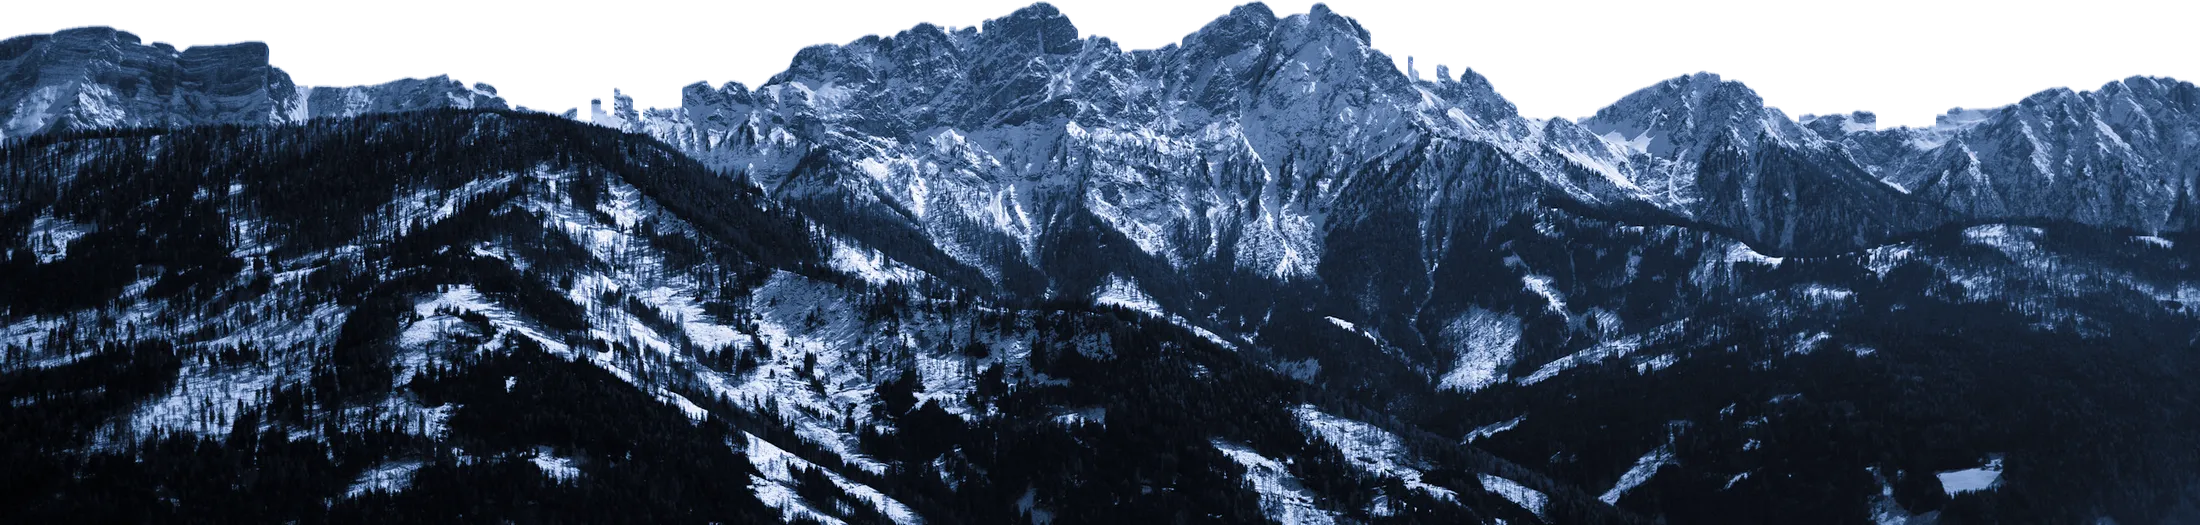
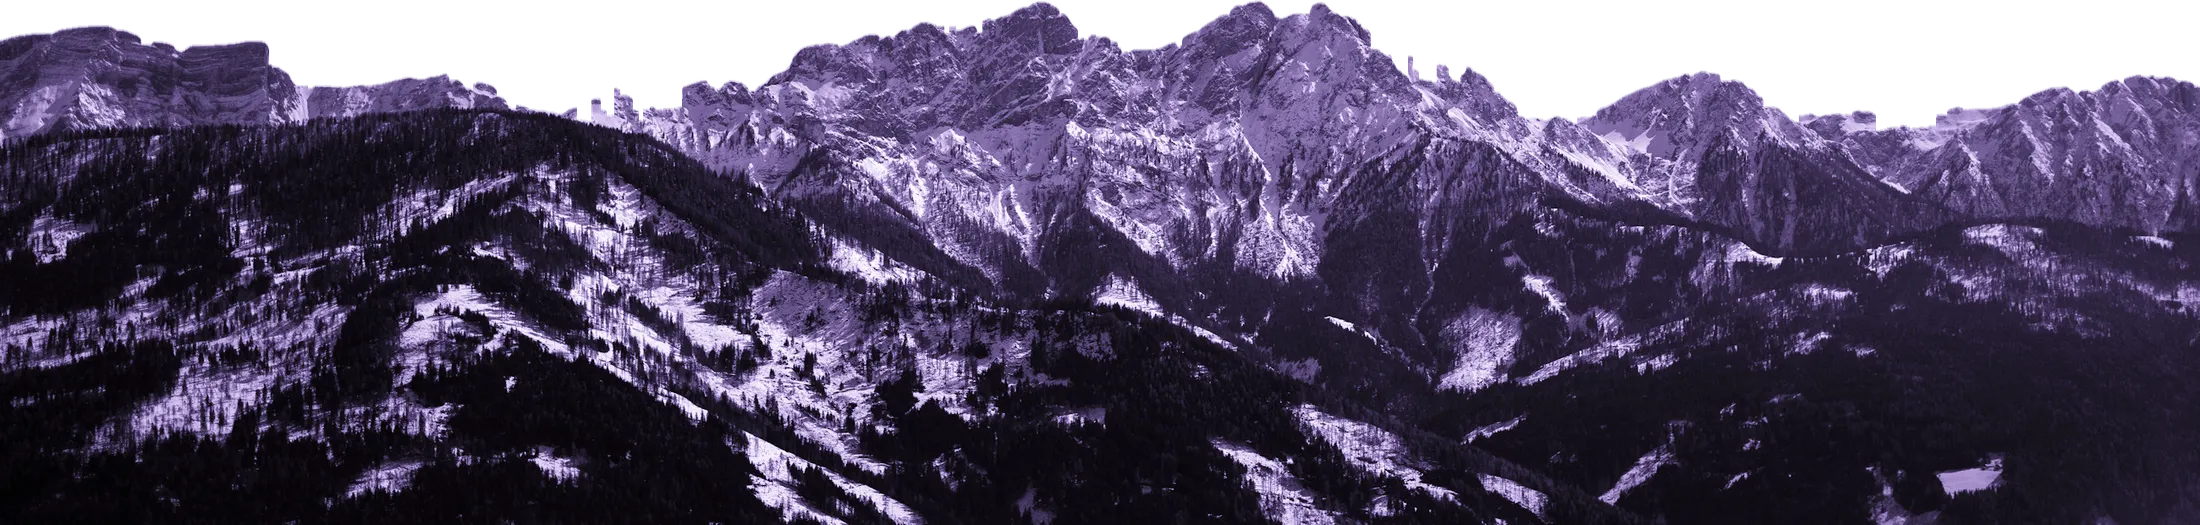
Move the hero to the lavender theme and add a tagline
- Lavender dusk sky (amethyst to a lavender horizon glow to plum)
  and lavender-tinted mountains in place of the night blue
- Drop the red ORIGINALS word; the statue stands alone, a little
  lower so it clears the garment rail
- "Wear the future — cut to fit only you." in the italic serif
  under the wordmark
- Header strip and the section below fade from plum again

diff --git a/components/sections/Hero.jsx b/components/sections/Hero.jsx
@@ -5,9 +5,9 @@ import { gsap } from "gsap"; // ScrollTrigger is registered once in SmoothScroll
 import { useApp } from "@/lib/store";
 import { Spark } from "../ui/primitives";
 
-// Streetwear-scale poster hero: a full-width extended wordmark under a night-blue sky, a "New
-// Arrival" pill, a slow rail of floating garments, and below it a red ORIGINALS word with a winged
-// statue rising out of snowed mountains in front of it. Layers drift apart on scroll.
+// Streetwear-scale poster hero: a full-width extended wordmark under a lavender dusk sky, a "New
+// Arrival" pill, a slow rail of floating garments, and below it a winged statue rising out of
+// lavender-lit mountains. Layers drift apart on scroll.
 // PLACEHOLDER imagery: Unsplash stock (see public/hero/CREDITS.md).
 const RAIL = [
   { src: "/hero/look-ivory-coat.webp", w: 401, h: 640, name: "Ivory Long Coat" },
@@ -50,7 +50,7 @@ export default function Hero({ ready }) {
   const { askStylist } = useApp();
 
   // Hold everything back under the preloader, then assemble: wordmark letters rise, the rail glides
-  // in, ORIGINALS lands, the statue climbs out from behind the mountains. Scroll pulls the layers apart.
+  // in, the statue climbs out from behind the mountains. Scroll pulls the layers apart.
   useEffect(() => {
     const ctx = gsap.context(() => {
       const mm = gsap.matchMedia();
@@ -63,7 +63,6 @@ export default function Hero({ ready }) {
         gsap.set(".hx-in", { opacity: 0 });
         gsap.set(".hx-angel", { yPercent: 38 });
         gsap.set(".hx-range", { yPercent: 18 });
-        gsap.set(".hx-red", { scale: 1.25 });
         gsap.set(".hx-rail", { x: 160 });
         if (!ready) return;
 
@@ -71,7 +70,7 @@ export default function Hero({ ready }) {
           .to(".hx-char", { yPercent: 0, duration: 1.2, stagger: 0.035 }, 0)
           .to(".hx-range", { yPercent: 0, opacity: 1, duration: 1.6 }, 0.1)
           .to(".hx-angel", { yPercent: 0, opacity: 1, duration: 2.2 }, 0.3)
-          .to(".hx-red", { scale: 1, opacity: 1, duration: 1.4 }, 0.55)
+          .fromTo(".hx-quote", { y: 14 }, { y: 0, opacity: 1, duration: 1.1 }, 0.55)
           .to(".hx-pill", { opacity: 1, duration: 0.8 }, 0.7)
           .to(".hx-rail", { x: 0, opacity: 1, duration: 1.6 }, 0.75)
           .to(".hx-corner", { opacity: 1, duration: 0.8, stagger: 0.1 }, 1.1);
@@ -80,7 +79,6 @@ export default function Hero({ ready }) {
         gsap.timeline({ scrollTrigger: { trigger: root.current, start: "top top", end: "bottom top", scrub: true } })
           .to(".hx-word", { yPercent: -45, ease: "none" }, 0)
           .to(".hx-rail-wrap", { y: -90, ease: "none" }, 0)
-          .to(".hx-red-wrap", { y: 110, ease: "none" }, 0)
           .to(".hx-angel-wrap", { y: -70, ease: "none" }, 0)
           .to(".hx-range-wrap", { y: 40, ease: "none" }, 0);
       });
@@ -95,10 +93,10 @@ export default function Hero({ ready }) {
       className="on-dark relative isolate flex h-[100svh] min-h-[680px] flex-col overflow-hidden text-white"
       aria-label="Fit Your Fashion — Season 01"
     >
-      {/* ── Night sky ───────────────────────────────────── */}
-      <div className="absolute inset-0 -z-10 bg-[linear-gradient(180deg,#1d5a76_0%,#1a4d69_28%,#123650_52%,#0b1f33_74%,#08111f_100%)]" aria-hidden />
-      <div className="hx-stars absolute inset-0 -z-10 opacity-70" aria-hidden />
-      <div className="absolute inset-x-0 bottom-0 -z-10 h-[70%] bg-[radial-gradient(ellipse_50%_55%_at_50%_72%,rgba(140,190,235,.22),transparent_70%)]" aria-hidden />
+      {/* ── Lavender dusk: amethyst overhead, a lavender glow at the horizon, plum below ── */}
+      <div className="absolute inset-0 -z-10 bg-[linear-gradient(180deg,#3b2a63_0%,#55408a_24%,#7660ae_44%,#9580c6_60%,#7a63b2_72%,#4a3778_86%,#1e1530_100%)]" aria-hidden />
+      <div className="hx-stars absolute inset-0 -z-10 opacity-60" aria-hidden />
+      <div className="absolute inset-x-0 bottom-0 -z-10 h-[70%] bg-[radial-gradient(ellipse_45%_50%_at_50%_68%,rgba(233,223,245,.45),transparent_70%)]" aria-hidden />
 
       {/* ── Wordmark + pill + rail (below the 97px header) ─ */}
       <div className="relative z-30 flex flex-col items-center pt-[calc(97px+2.2svh)]">
@@ -119,9 +117,14 @@ export default function Hero({ ready }) {
           </span>
         </h1>
 
+        {/* the quiet serif line against the loud wordmark */}
+        <p className="hx-quote hx-in display-i mt-[1.2svh] px-6 text-center text-[clamp(19px,2.3vw,32px)] leading-tight text-mist">
+          Wear the future <span className="text-lavender">—</span> cut to fit only you.
+        </p>
+
         <a
           href="#shop"
-          className="hx-pill hx-in mt-[2.2svh] rounded-full border-2 border-white/85 px-6 py-2 text-[14px] font-semibold tracking-[0.01em] text-white transition-colors hover:bg-white hover:text-[#123650] sm:text-[15px]"
+          className="hx-pill hx-in mt-[2svh] rounded-full border-2 border-white/85 px-6 py-2 text-[14px] font-semibold tracking-[0.01em] text-white transition-colors hover:bg-white hover:text-plum sm:text-[15px]"
           data-cursor="Shop"
         >
           New Arrival
@@ -137,20 +140,15 @@ export default function Hero({ ready }) {
         </div>
       </div>
 
-      {/* ── Statue scene: red word behind, angel, mountains in front ─ */}
+      {/* ── Statue scene: the angel rising out of the mountains ─ */}
       <div className="pointer-events-none absolute inset-x-0 bottom-0 h-[47svh] min-h-[320px]" aria-hidden>
-        <div className="hx-red-wrap absolute inset-x-0 top-[9%] z-0 text-center">
-          <p className="hx-red hx-in font-[family-name:var(--font-wide)] text-[13vw] font-black uppercase leading-none tracking-[-0.02em] text-[#ff2b2b] [text-shadow:0_0_60px_rgba(255,40,40,.35)] sm:text-[min(8.6vw,17svh)]">
-            Originals
-          </p>
-        </div>
-        <div className="hx-angel-wrap absolute bottom-[4%] left-1/2 z-10 h-[96%] -translate-x-1/2">
+        <div className="hx-angel-wrap absolute bottom-[4%] left-1/2 z-10 h-[80%] -translate-x-1/2">
           <Image src="/hero/angel.webp" alt="" width={468} height={941} priority sizes="(max-width: 640px) 60vw, 26vw" className="hx-angel hx-in h-full w-auto" />
         </div>
         <div className="hx-range-wrap absolute inset-x-0 -bottom-[2%] z-20 h-[46%] sm:h-[52%]">
           <Image src="/hero/range.webp" alt="" fill priority sizes="100vw" className="hx-range hx-in object-cover object-top" />
         </div>
-        <div className="absolute inset-x-0 bottom-0 z-20 h-[22%] bg-gradient-to-t from-[#08111f] to-transparent" />
+        <div className="absolute inset-x-0 bottom-0 z-20 h-[24%] bg-gradient-to-t from-plum to-transparent" />
       </div>
 
       {/* ── Corners ─────────────────────────────────────── */}
@@ -160,7 +158,7 @@ export default function Hero({ ready }) {
         </p>
         <button
           onClick={() => askStylist("Style me a look from the new arrivals")}
-          className="hx-corner hx-in label-sm ml-auto flex items-center gap-2 rounded-full border border-white/30 bg-[#08111f]/60 px-4 py-2.5 text-white/90 transition-colors hover:bg-white hover:text-[#123650]"
+          className="hx-corner hx-in label-sm ml-auto flex items-center gap-2 rounded-full border border-white/30 bg-plum/55 px-4 py-2.5 text-white/90 transition-colors hover:bg-white hover:text-plum"
           data-cursor="Ask"
         >
           <Spark className="h-3 w-3" /> Style me with AI

diff --git a/components/Header.jsx b/components/Header.jsx
@@ -128,7 +128,7 @@ export default function Header() {
         onMouseLeave={closeMega}
       >
         {/* ── Announcement strip (32px) ─────────────────────── */}
-        <div className={`relative h-8 overflow-hidden text-pearl transition-colors duration-500 ${dark && !menu ? "bg-[#06121f]/55" : "bg-[#120c1f]"}`}>
+        <div className={`relative h-8 overflow-hidden text-pearl transition-colors duration-500 ${dark && !menu ? "bg-plum/45" : "bg-[#120c1f]"}`}>
           <AnimatePresence mode="wait" initial={false}>
             <motion.button
               key={note}

diff --git a/components/Backdrop.jsx b/components/Backdrop.jsx
@@ -9,7 +9,7 @@ import { useApp } from "@/lib/store";
 // sits on its own ground (a single shared, scroll-blended backdrop left dark sections half-light while
 // both were on screen). Sections marked [data-tint] stay transparent over this fixed layer, which
 // hovering a mood retints.
-const FIRST_FROM = "#08111f"; // the hero above the first chapter ends in its night-mountain navy
+const FIRST_FROM = "#1E1530"; // the hero above the first chapter ends in midnight plum
 
 export default function Backdrop() {
   const el = useRef(null);
